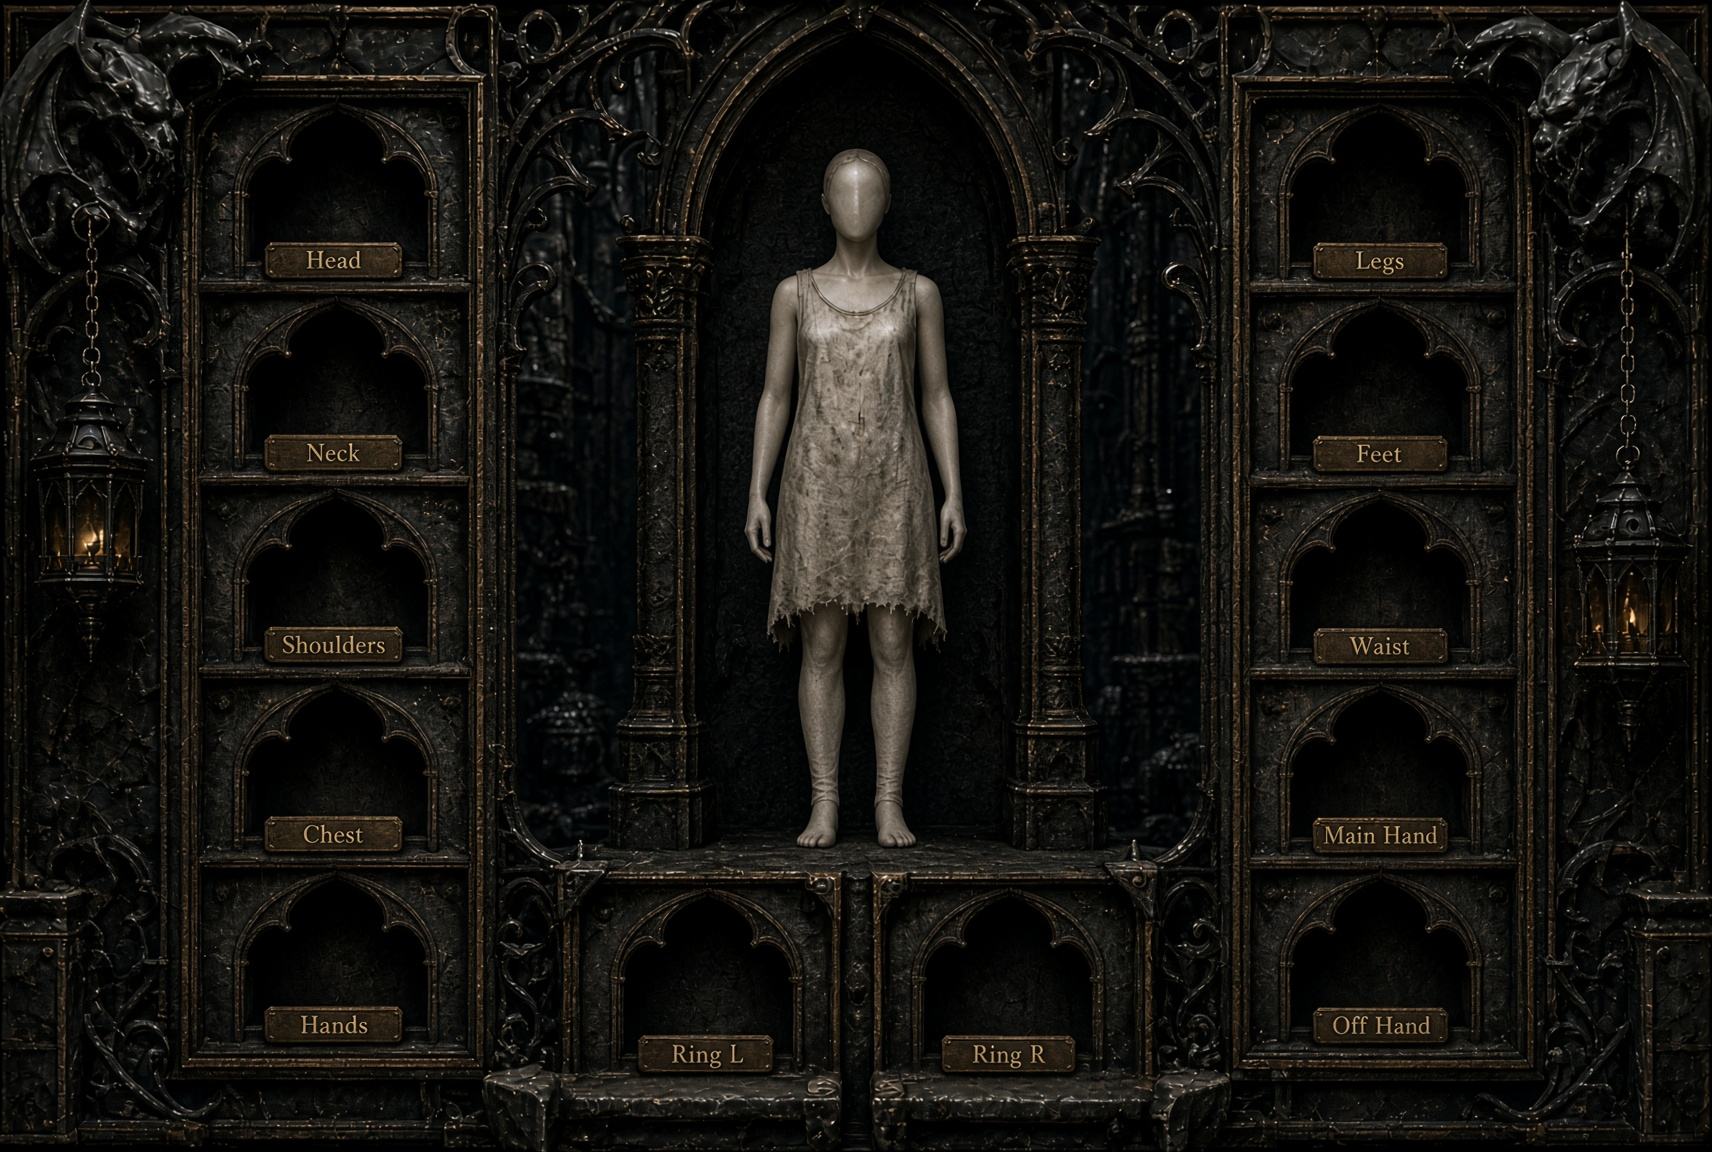
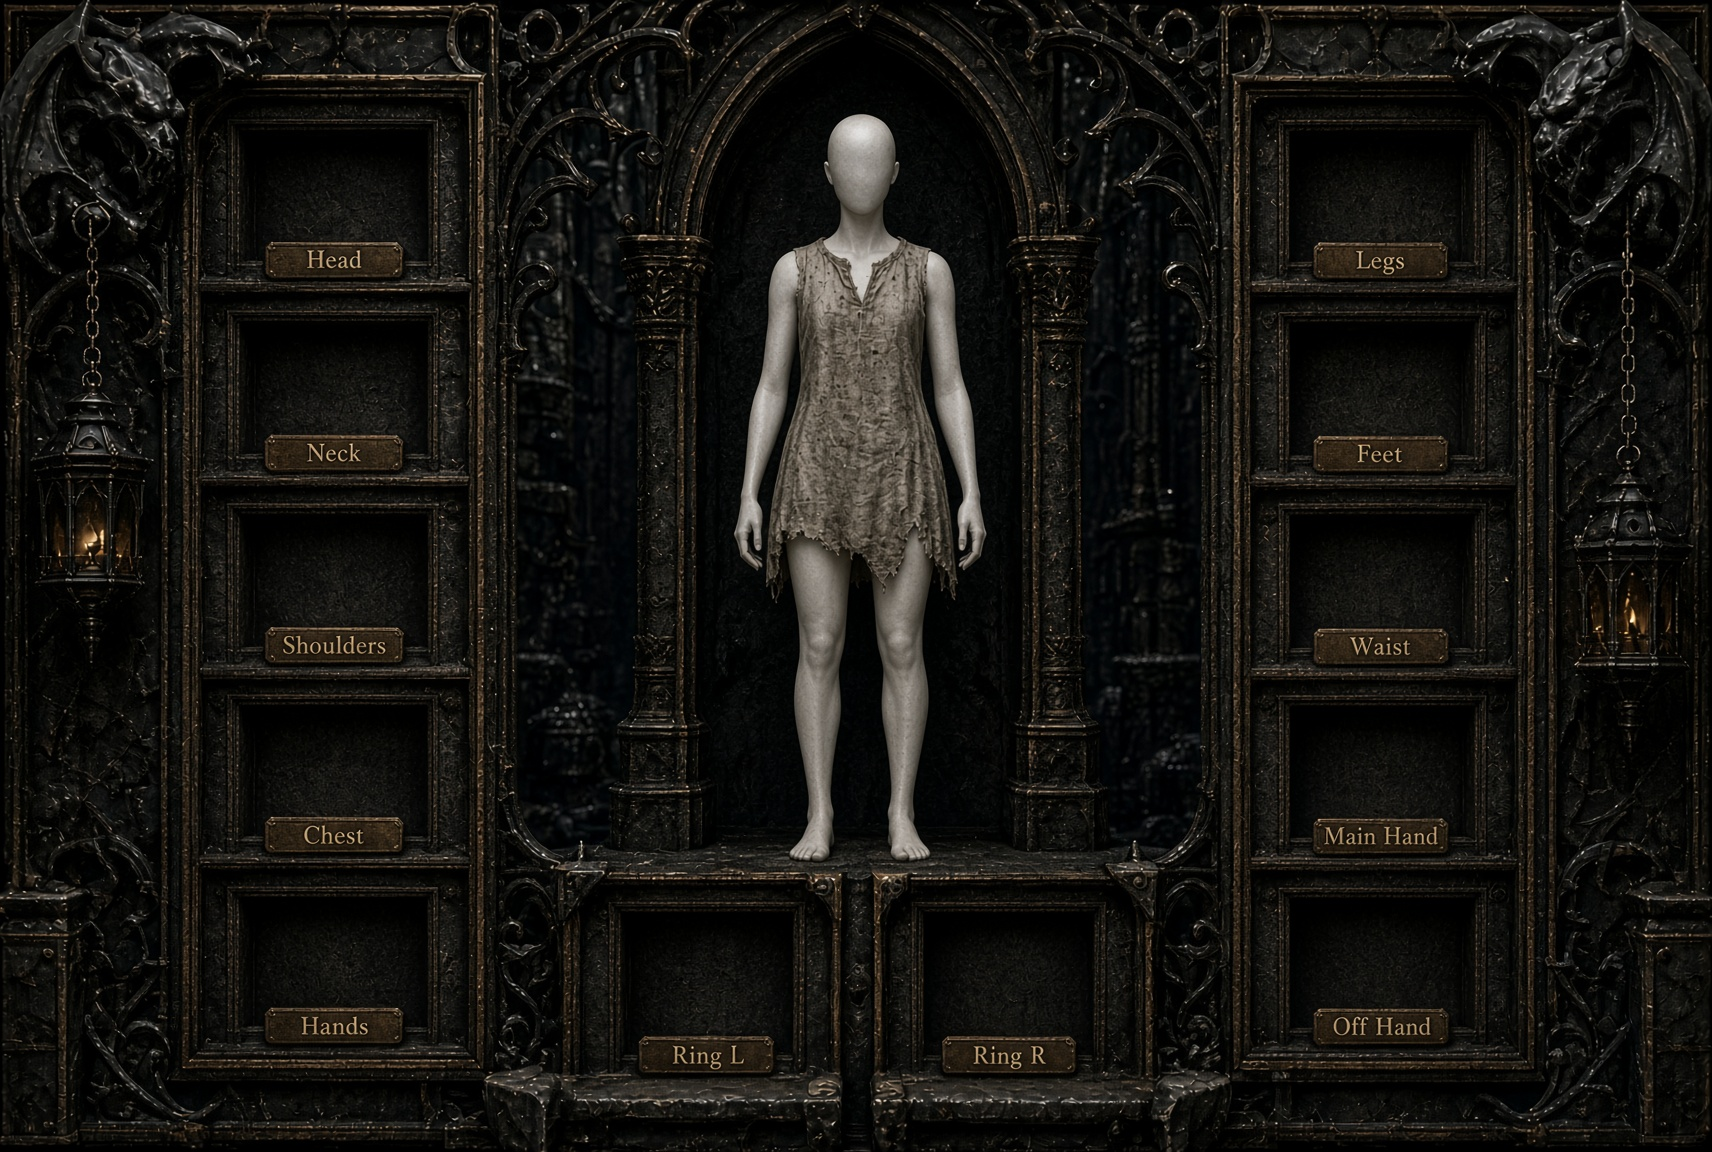
Release version 0.296 world map loading

diff --git a/src/game/InventoryScreens.tsx b/src/game/InventoryScreens.tsx
@@ -115,28 +115,28 @@ function ItemActionSheet({
 const HERO_BASE_CLASS: Record<string, ClassId> = { Kael: "kaelFinal", Neera: "neera", Voss: "voss", Salazar: "salazar", Aldric: "aldric", Malrec: "conjurer" };
 
 type DollSlot = "mainHand" | EquipSlot;
-/** Inner arch niches of equipment-male/female.jpg (1168×784), measured from the
- * labeled frames: 5 left, 5 right, 2 rings under the statue. Icons sit in the
- * opening above each plaque, not over the label. */
+/** Inner openings of the paper-doll frames (1712×1152). The socket-size reference
+ * marks these usable bounds in white: every item fills its socket above the plaque,
+ * never the plaque itself. */
 type DollSlotPosition = { id: DollSlot; label: string; left: string; top: string; width: string; height: string };
 
 const MALE_DOLL_SLOT_POSITIONS: DollSlotPosition[] = [
-  { id: "head", label: "Cabeça", left: "16.44%", top: "14.54%", width: "6.59%", height: "5.74%" },
-  { id: "neck", label: "Pescoço", left: "16.44%", top: "31.38%", width: "6.59%", height: "5.74%" },
-  { id: "shoulders", label: "Ombros", left: "16.44%", top: "48.21%", width: "6.59%", height: "5.74%" },
-  { id: "chest", label: "Peito", left: "16.44%", top: "65.05%", width: "6.59%", height: "5.74%" },
-  { id: "hands", label: "Mãos", left: "16.44%", top: "81.89%", width: "6.59%", height: "5.74%" },
-  { id: "legs", label: "Pernas", left: "77.05%", top: "14.54%", width: "6.59%", height: "5.99%" },
-  { id: "feet", label: "Pés", left: "76.88%", top: "31.38%", width: "6.76%", height: "5.74%" },
-  { id: "waist", label: "Cintura", left: "76.97%", top: "48.21%", width: "6.59%", height: "5.74%" },
-  { id: "mainHand", label: "Mão Principal", left: "76.97%", top: "65.05%", width: "6.59%", height: "5.74%" },
-  { id: "offHand", label: "Mão Secundária", left: "76.97%", top: "81.89%", width: "6.59%", height: "5.74%" },
-  { id: "ring1", label: "Anel 1", left: "37.33%", top: "82.91%", width: "7.96%", height: "6.12%" },
-  { id: "ring2", label: "Anel 2", left: "54.97%", top: "83.16%", width: "7.71%", height: "5.74%" },
+  { id: "head", label: "Cabeça", left: "14.953%", top: "10.764%", width: "9.638%", height: "9.722%" },
+  { id: "neck", label: "Pescoço", left: "14.720%", top: "27.778%", width: "10.164%", height: "9.809%" },
+  { id: "shoulders", label: "Ombros", left: "14.311%", top: "44.184%", width: "10.280%", height: "9.896%" },
+  { id: "chest", label: "Peito", left: "14.194%", top: "61.111%", width: "10.631%", height: "9.809%" },
+  { id: "hands", label: "Mãos", left: "14.369%", top: "77.604%", width: "10.514%", height: "9.462%" },
+  { id: "legs", label: "Pernas", left: "75.643%", top: "10.156%", width: "9.696%", height: "10.503%" },
+  { id: "feet", label: "Pés", left: "75.409%", top: "27.170%", width: "10.222%", height: "10.851%" },
+  { id: "waist", label: "Cintura", left: "75.467%", top: "44.184%", width: "10.339%", height: "10.330%" },
+  { id: "mainHand", label: "Mão Principal", left: "75.526%", top: "61.024%", width: "9.813%", height: "10.069%" },
+  { id: "offHand", label: "Mão Secundária", left: "76.051%", top: "78.038%", width: "9.229%", height: "9.115%" },
+  { id: "ring1", label: "Anel 1", left: "37.033%", top: "78.993%", width: "8.762%", height: "10.677%" },
+  { id: "ring2", label: "Anel 2", left: "54.731%", top: "79.601%", width: "8.645%", height: "10.069%" },
 ];
 
-const ART_ASPECT_W = 1168;
-const ART_ASPECT_H = 784;
+const ART_ASPECT_W = 1712;
+const ART_ASPECT_H = 1152;
 
 /** Positions children in % of the *drawn* art rectangle. Size is measured off the
  * host with ResizeObserver so letterboxing never shifts the slots. */
@@ -275,7 +275,9 @@ export function PaperDollScreen({
   const enh = weaponId ? (save.weapons[weaponId] ?? 0) : 0;
   const equip = save.equipment[heroName] ?? {};
   const femaleDoll = heroName === "Neera";
-  const dollImage = femaleDoll ? "/game/ui/equipment-female.jpg" : "/game/ui/equipment-male.jpg";
+  // Cache-bust the supplied paper-doll art so saved browser sessions immediately pick up
+  // the replacement male/female files rather than retaining an older cached illustration.
+  const dollImage = femaleDoll ? "/game/ui/equipment-female.jpg?v=3" : "/game/ui/equipment-male.jpg?v=3";
   const dollSlotPositions = MALE_DOLL_SLOT_POSITIONS;
   const wearerOf = (itemId: string) => Object.entries(save.equipment).find(([, slots]) => Object.values(slots).includes(itemId))?.[0];
   const ownedWeapons = [...weaponsForClass(classId)].filter((w) => save.weapons[w.id] != null).sort((a, b) => weaponPower(a) - weaponPower(b));
@@ -352,8 +354,8 @@ export function PaperDollScreen({
         <FittedArt
           src={dollImage}
           alt={`Equipamento de ${heroName}`}
-          artW={femaleDoll ? 1712 : ART_ASPECT_W}
-          artH={femaleDoll ? 1152 : ART_ASPECT_H}
+          artW={ART_ASPECT_W}
+          artH={ART_ASPECT_H}
         >
           {dollSlotPositions.map((slot) => {
             const isWeapon = slot.id === "mainHand";
@@ -369,7 +371,7 @@ export function PaperDollScreen({
                   <button
                     type="button"
                     onClick={() => setPicker(slot.id)}
-                    className={`flex size-full items-center justify-center overflow-hidden rounded-sm border border-transparent transition-colors hover:border-accent/80 focus-visible:border-accent ${isWeapon ? "bg-black" : "hover:bg-bg/35"} ${glowSlot === slot.id ? "inn-open" : ""}`}
+                    className={`flex size-full items-center justify-center overflow-hidden rounded-sm border border-transparent bg-transparent transition-colors hover:border-accent/80 focus-visible:border-accent hover:bg-bg/35 ${glowSlot === slot.id ? "inn-open" : ""}`}
                     aria-label={`${slot.label}: ${isWeapon ? weapon?.name ?? "vazia" : item?.name ?? "vazio"}`}
                   >
                     {icon ? (

diff --git a/src/game/WorldMapScreen.tsx b/src/game/WorldMapScreen.tsx
@@ -4,6 +4,7 @@ import { missionsForLocation } from "./mapstore";
 import type { Mission, WorldLocation } from "./types";
 import { GoldAmount } from "./GoldAmount";
 import { getAudioVolumes, setCutsceneVolume, setMusicVolume, setSfxVolume, sfxPlay, unlockAudio } from "./audio";
+import { MapLoadingOverlay, useMapLoading } from "./MapLoadingOverlay";
 
 export type LocationStatus = "locked" | "available" | "done";
 
@@ -56,6 +57,7 @@ export function WorldMapScreen({
 }) {
   const [open, setOpen] = useState<WorldLocation | null>(null);
   const [artOk, setArtOk] = useState(true);
+  const mapLoading = useMapLoading();
   const [flashId, setFlashId] = useState<string | null>(null);
   const [zoomIdx, setZoomIdx] = useState(ZOOM_STOPS.length - 1);
   const [audioSettingsOpen, setAudioSettingsOpen] = useState(false);
@@ -312,7 +314,7 @@ export function WorldMapScreen({
               alt=""
               className="block w-full h-auto rounded-lg select-none"
               draggable={false}
-              onError={() => setArtOk(false)}
+              onError={() => { setArtOk(false); mapLoading.finish(); }}
               // The mount-time centering effect below fires before this image has actually
               // finished loading — with no intrinsic size yet, the viewport's scrollHeight
               // is still near zero at that moment, so recenterOn's own clamp forces the
@@ -322,7 +324,10 @@ export function WorldMapScreen({
               // reads as "opens somewhere random" rather than "opens on your location."
               // Re-centering here, once real dimensions exist, fixes that; it's a no-op if
               // the mount effect already landed correctly (same target fraction either way).
-              onLoad={() => recenterOn(centerFracRef.current.x, centerFracRef.current.y)}
+              onLoad={() => {
+                recenterOn(centerFracRef.current.x, centerFracRef.current.y);
+                window.requestAnimationFrame(() => window.requestAnimationFrame(mapLoading.finish));
+              }}
             />
           ) : (
             <div className="w-[70dvw] h-[70dvh] max-w-md" />
@@ -417,6 +422,8 @@ export function WorldMapScreen({
           </button>
         </div>
       )}
+
+      <MapLoadingOverlay progress={mapLoading.progress} visible={mapLoading.visible} />
 
       {open && (
         <LocationPanel

diff --git a/src/game/MapLoadingOverlay.tsx b/src/game/MapLoadingOverlay.tsx
@@ -1,0 +1,50 @@
+import { useCallback, useEffect, useRef, useState } from "react";
+
+/** Keeps the map hidden until its large image has dimensions and React can position its markers. */
+export function useMapLoading() {
+  const [progress, setProgress] = useState(12);
+  const [visible, setVisible] = useState(true);
+  const finished = useRef(false);
+
+  const finish = useCallback(() => {
+    if (finished.current) return;
+    finished.current = true;
+    setProgress((current) => Math.max(current, 86));
+    window.requestAnimationFrame(() => {
+      window.requestAnimationFrame(() => {
+        setProgress(100);
+        window.setTimeout(() => setVisible(false), 280);
+      });
+    });
+  }, []);
+
+  useEffect(() => {
+    const art = new Image();
+    art.onload = art.onerror = () => setProgress((current) => Math.max(current, 42));
+    art.src = "/game/ui/loading-screen.jpg?v=1";
+    const warmup = window.setTimeout(() => setProgress((current) => Math.max(current, 58)), 180);
+    // Do not leave the player trapped if the map image fails to load.
+    const fallback = window.setTimeout(finish, 6000);
+    return () => {
+      window.clearTimeout(warmup);
+      window.clearTimeout(fallback);
+    };
+  }, [finish]);
+
+  return { progress, visible, finish };
+}
+
+export function MapLoadingOverlay({ progress, visible }: { progress: number; visible: boolean }) {
+  if (!visible) return null;
+  return (
+    <div className="absolute inset-0 z-[70] grid place-items-end overflow-hidden bg-[#151311] px-6 pb-[max(2.5rem,env(safe-area-inset-bottom))]" aria-live="polite" aria-label={`Carregando mapa: ${progress}%`}>
+      <img src="/game/ui/loading-screen.jpg?v=1" alt="" className="absolute inset-0 size-full object-cover" />
+      <div className="relative w-full max-w-md">
+        <div className="h-3 overflow-hidden rounded-sm border border-[#b4976a]/80 bg-black/80 p-[2px] shadow-[0_2px_18px_rgba(0,0,0,0.8)]">
+          <div className="h-full bg-gradient-to-r from-[#713718] via-[#e1a541] to-[#fff0a2] transition-[width] duration-300 ease-out" style={{ width: `${progress}%` }} />
+        </div>
+        <p className="mt-2 text-center text-[11px] uppercase tracking-[0.22em] text-[#eee0c8] drop-shadow-[0_1px_2px_#000]">Carregando o mapa · {progress}%</p>
+      </div>
+    </div>
+  );
+}

diff --git a/src/game/OverworldMapScreen.tsx b/src/game/OverworldMapScreen.tsx
@@ -10,6 +10,7 @@ import { canStepOverworld, hexToWorld, isOverworldCell, locationExpired, neighbo
 import { HungerBar } from "./HungerBar";
 import { portraitFor } from "./assets";
 import { key } from "./pathfinding";
+import { MapLoadingOverlay, useMapLoading } from "./MapLoadingOverlay";
 
 export type LocationStatus = "locked" | "available" | "done";
 
@@ -137,6 +138,7 @@ export function OverworldMapScreen({
     return () => window.removeEventListener("keydown", cancel);
   }, []);
   const [artOk, setArtOk] = useState(true);
+  const mapLoading = useMapLoading();
   const [flashId, setFlashId] = useState<string | null>(null);
   const [hint, setHint] = useState<string | null>(null);
   const [zoomIdx, setZoomIdx] = useState(ZOOM_STOPS.length - 1);
@@ -445,8 +447,11 @@ export function OverworldMapScreen({
               alt=""
               className="block w-full h-auto rounded-lg select-none"
               draggable={false}
-              onError={() => setArtOk(false)}
-              onLoad={() => recenterOn(centerFracRef.current.x, centerFracRef.current.y)}
+              onError={() => { setArtOk(false); mapLoading.finish(); }}
+              onLoad={() => {
+                recenterOn(centerFracRef.current.x, centerFracRef.current.y);
+                window.requestAnimationFrame(() => window.requestAnimationFrame(mapLoading.finish));
+              }}
             />
           ) : (
             <div className="w-[70dvw] h-[70dvh] max-w-md" />
@@ -670,6 +675,8 @@ export function OverworldMapScreen({
           </button>
         </div>
       )}
+
+      <MapLoadingOverlay progress={mapLoading.progress} visible={mapLoading.visible} />
 
       {open && (
         <LocationPanel

diff --git a/src/game/GameApp.tsx b/src/game/GameApp.tsx
@@ -5182,7 +5182,9 @@ function MapEditorScreen({
                           const fresh = blankDraft();
                           const id = normalizeScenarioId(`random-${region.id}-${Date.now().toString(36)}`);
                           updateRegion([...region.encounterIds, id]);
-                          setDraft({ ...fresh, id, index: 0, title: "Novo Random Encounter", place: region.name, locationId: "" });
+                          // Include the generated scenario id so two encounters in the same
+                          // region never begin with the same editor-visible name.
+                          setDraft({ ...fresh, id, index: 0, title: `Encontro em ${region.name} · ${id.replace(/^random-[^-]+-/, "")}`, place: region.name, locationId: "" });
                           setShowRandomEncounters(false);
                           setNote(`Novo encontro criado em ${region.name}. Salve o mapa para gravar o conteúdo.`);
                         }}

diff --git a/src/game/save.ts b/src/game/save.ts
@@ -571,6 +571,16 @@ function migrateRecord(raw: Record<string, unknown>, muted: boolean): SaveData {
     weapons[id] = weapons[id] ?? 0;
     equipped[hero] = id;
   }
+  // Aldric and Malrec were added after the original roster. Backfill their starter
+  // weapons too, so existing saves place the weapon in the character's equipped slot
+  // when they join instead of leaving it as an unassigned Mochila item.
+  for (const [hero, classId] of Object.entries(LATE_HERO_BASE_CLASS)) {
+    if (equipped[hero]) continue;
+    const id = starterWeaponFor(classId);
+    if (!id) continue;
+    weapons[id] = weapons[id] ?? 0;
+    equipped[hero] = id;
+  }
   let ember = clampInt(raw.ember, 0, 9999);
   let emberSeeded = raw.emberSeeded === true;
   if (!emberSeeded) {
